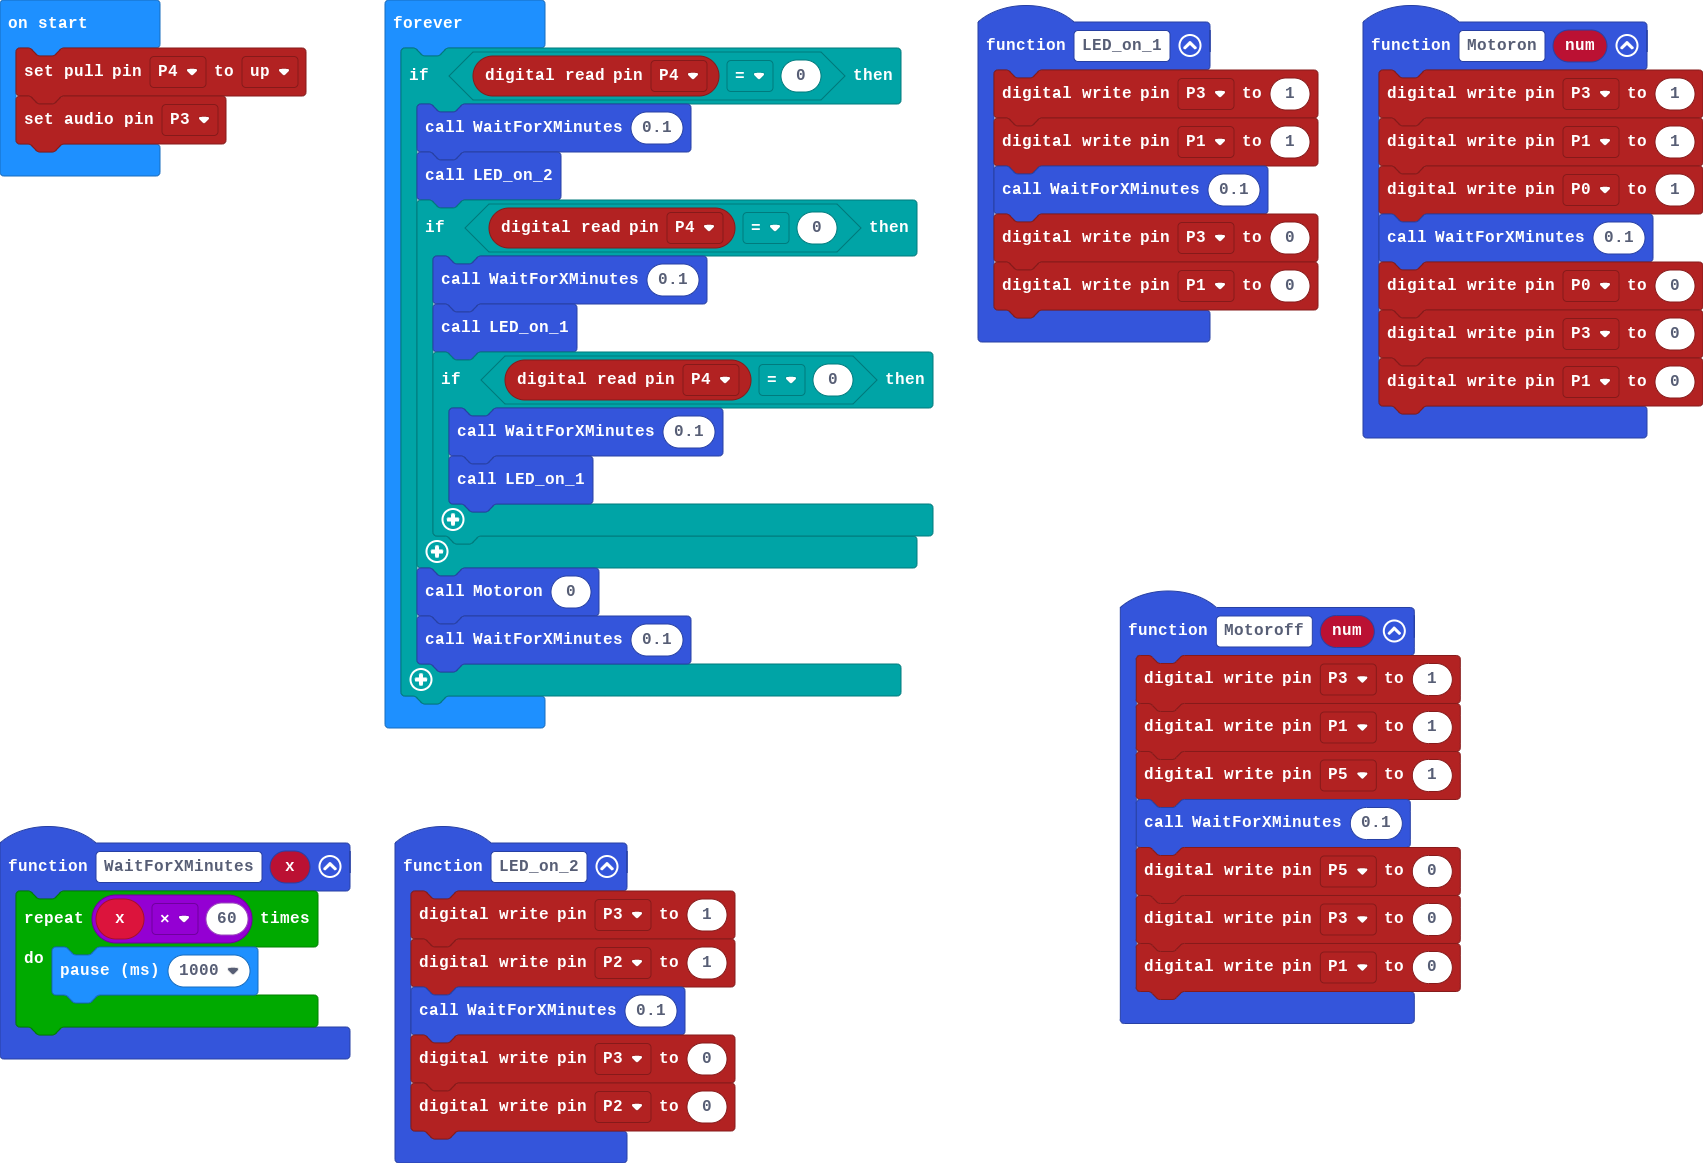
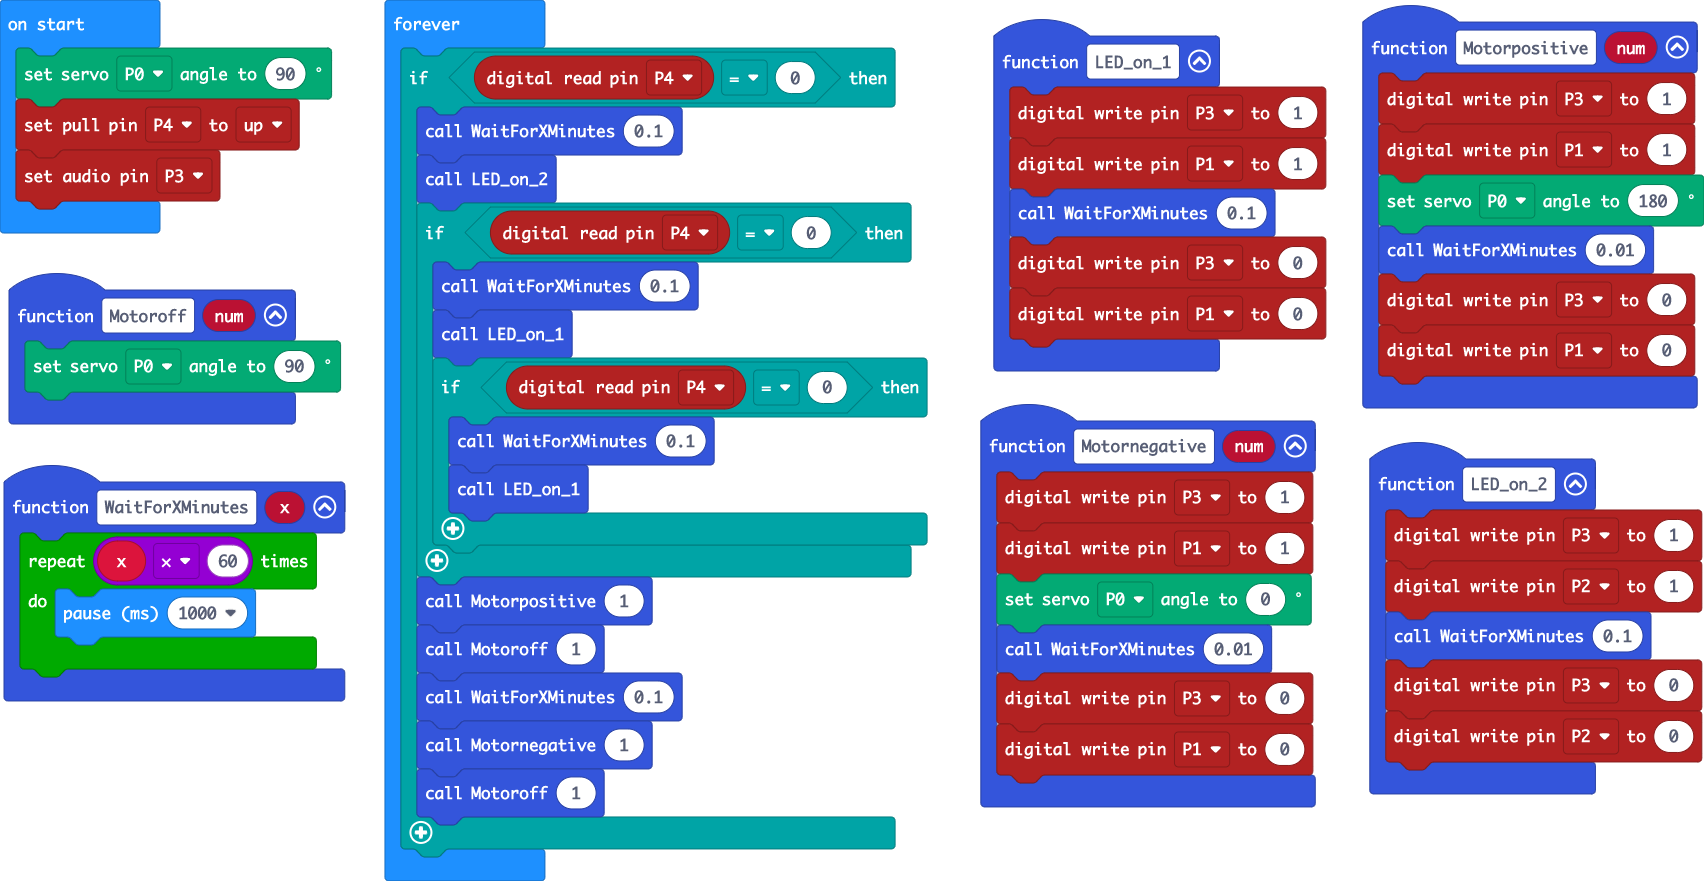
Update main.blocks, main.ts

diff --git a/main.ts b/main.ts
@@ -1,9 +1,25 @@
+function Motornegative (num: number) {
+    pins.digitalWritePin(DigitalPin.P3, 1)
+    pins.digitalWritePin(DigitalPin.P1, 1)
+    servos.P0.setAngle(0)
+    WaitForXMinutes(0.01)
+    pins.digitalWritePin(DigitalPin.P3, 0)
+    pins.digitalWritePin(DigitalPin.P1, 0)
+}
 function LED_on_2 () {
     pins.digitalWritePin(DigitalPin.P3, 1)
     pins.digitalWritePin(DigitalPin.P2, 1)
     WaitForXMinutes(0.1)
     pins.digitalWritePin(DigitalPin.P3, 0)
     pins.digitalWritePin(DigitalPin.P2, 0)
+}
+function Motorpositive (num: number) {
+    pins.digitalWritePin(DigitalPin.P3, 1)
+    pins.digitalWritePin(DigitalPin.P1, 1)
+    servos.P0.setAngle(180)
+    WaitForXMinutes(0.01)
+    pins.digitalWritePin(DigitalPin.P3, 0)
+    pins.digitalWritePin(DigitalPin.P1, 0)
 }
 function WaitForXMinutes (x: number) {
     for (let index = 0; index < x * 60; index++) {
@@ -18,23 +34,9 @@ function LED_on_1 () {
     pins.digitalWritePin(DigitalPin.P1, 0)
 }
 function Motoroff (num: number) {
-    pins.digitalWritePin(DigitalPin.P3, 1)
-    pins.digitalWritePin(DigitalPin.P1, 1)
-    pins.digitalWritePin(DigitalPin.P5, 1)
-    WaitForXMinutes(0.1)
-    pins.digitalWritePin(DigitalPin.P5, 0)
-    pins.digitalWritePin(DigitalPin.P3, 0)
-    pins.digitalWritePin(DigitalPin.P1, 0)
+    servos.P0.setAngle(90)
 }
-function Motoron (num: number) {
-    pins.digitalWritePin(DigitalPin.P3, 1)
-    pins.digitalWritePin(DigitalPin.P1, 1)
-    pins.digitalWritePin(DigitalPin.P0, 1)
-    WaitForXMinutes(0.1)
-    pins.digitalWritePin(DigitalPin.P0, 0)
-    pins.digitalWritePin(DigitalPin.P3, 0)
-    pins.digitalWritePin(DigitalPin.P1, 0)
-}
+servos.P0.setAngle(90)
 pins.setPull(DigitalPin.P4, PinPullMode.PullUp)
 pins.setAudioPin(AnalogPin.P3)
 basic.forever(function () {
@@ -49,7 +51,10 @@ basic.forever(function () {
                 LED_on_1()
             }
         }
-        Motoron(0)
+        Motorpositive(1)
+        Motoroff(1)
         WaitForXMinutes(0.1)
+        Motornegative(1)
+        Motoroff(1)
     }
 })
